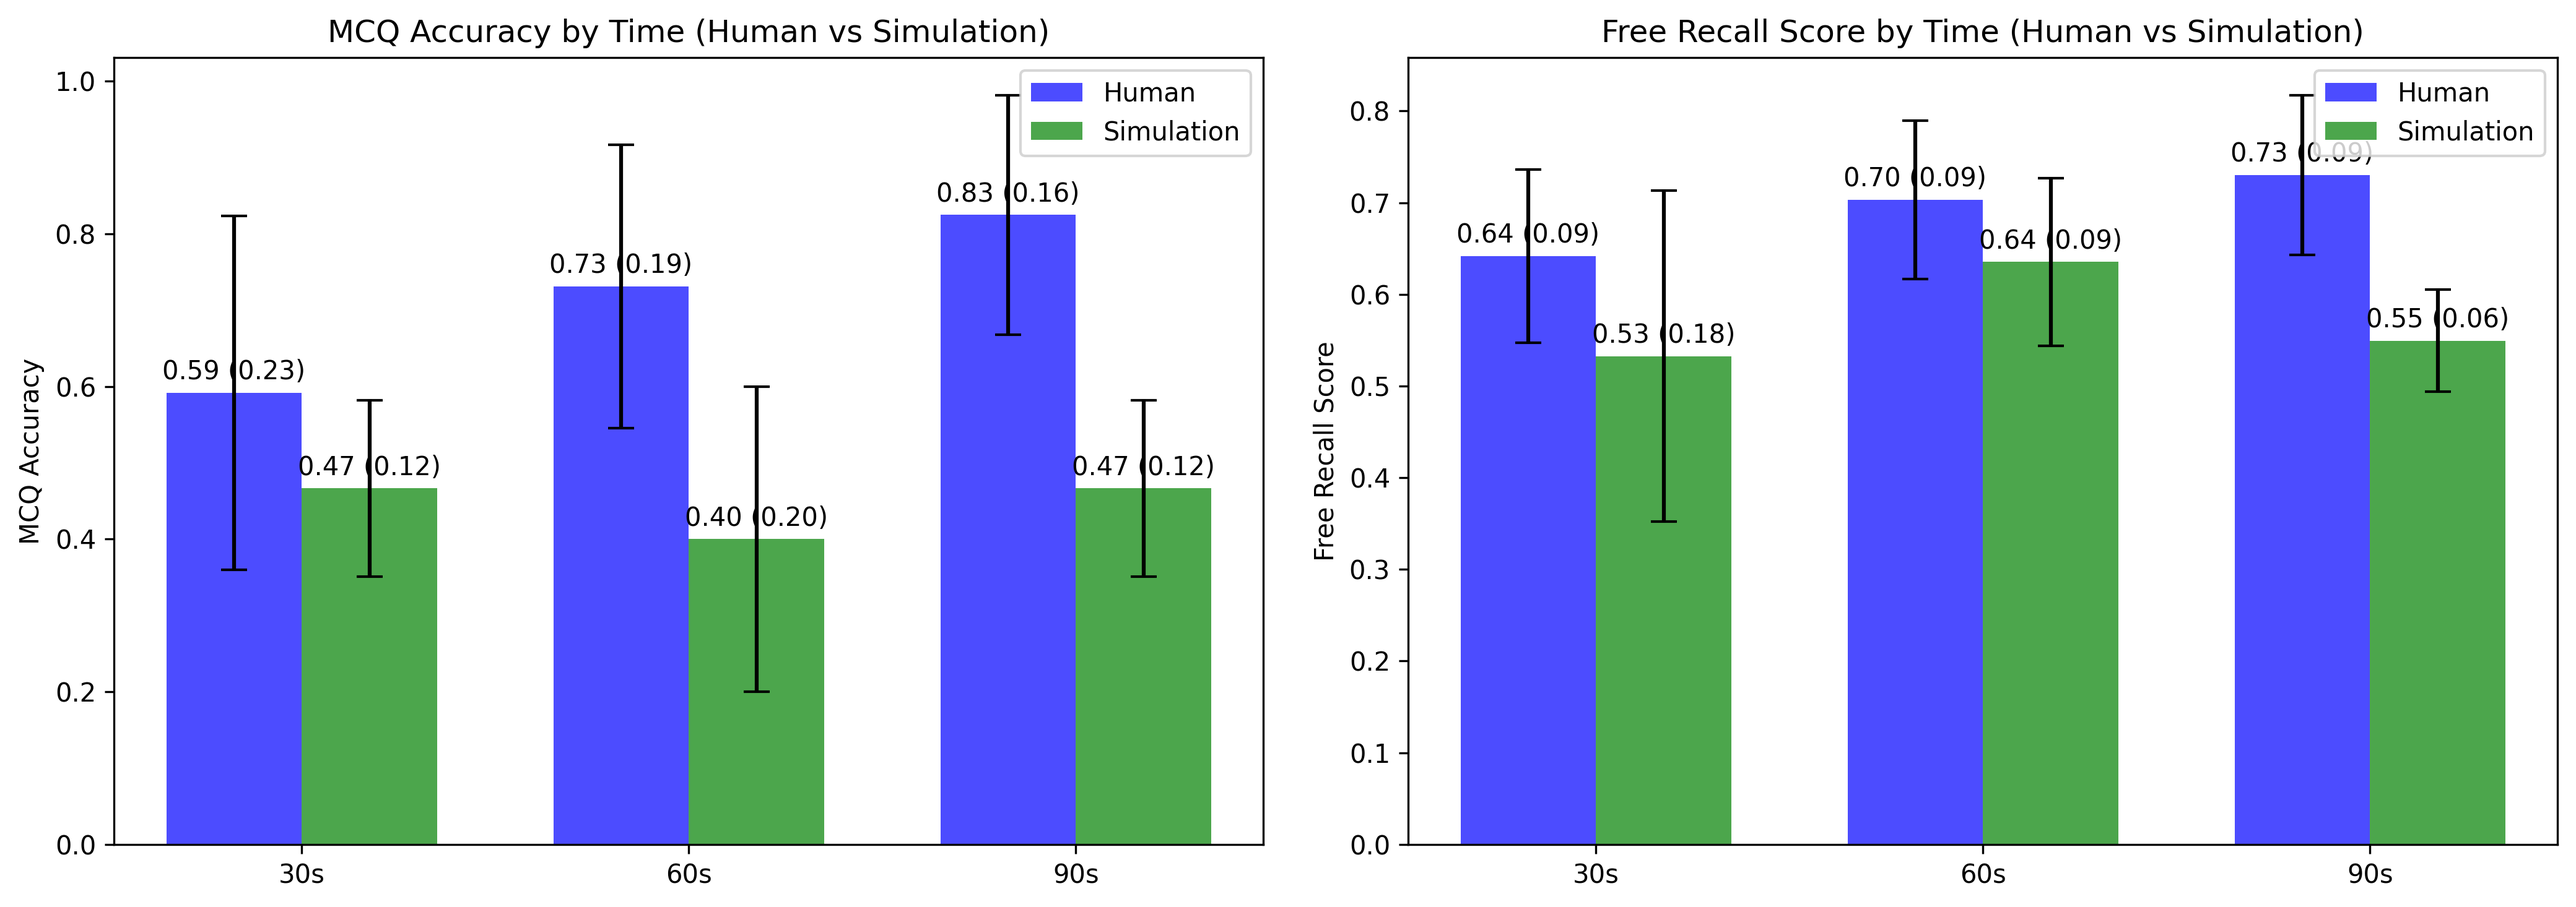
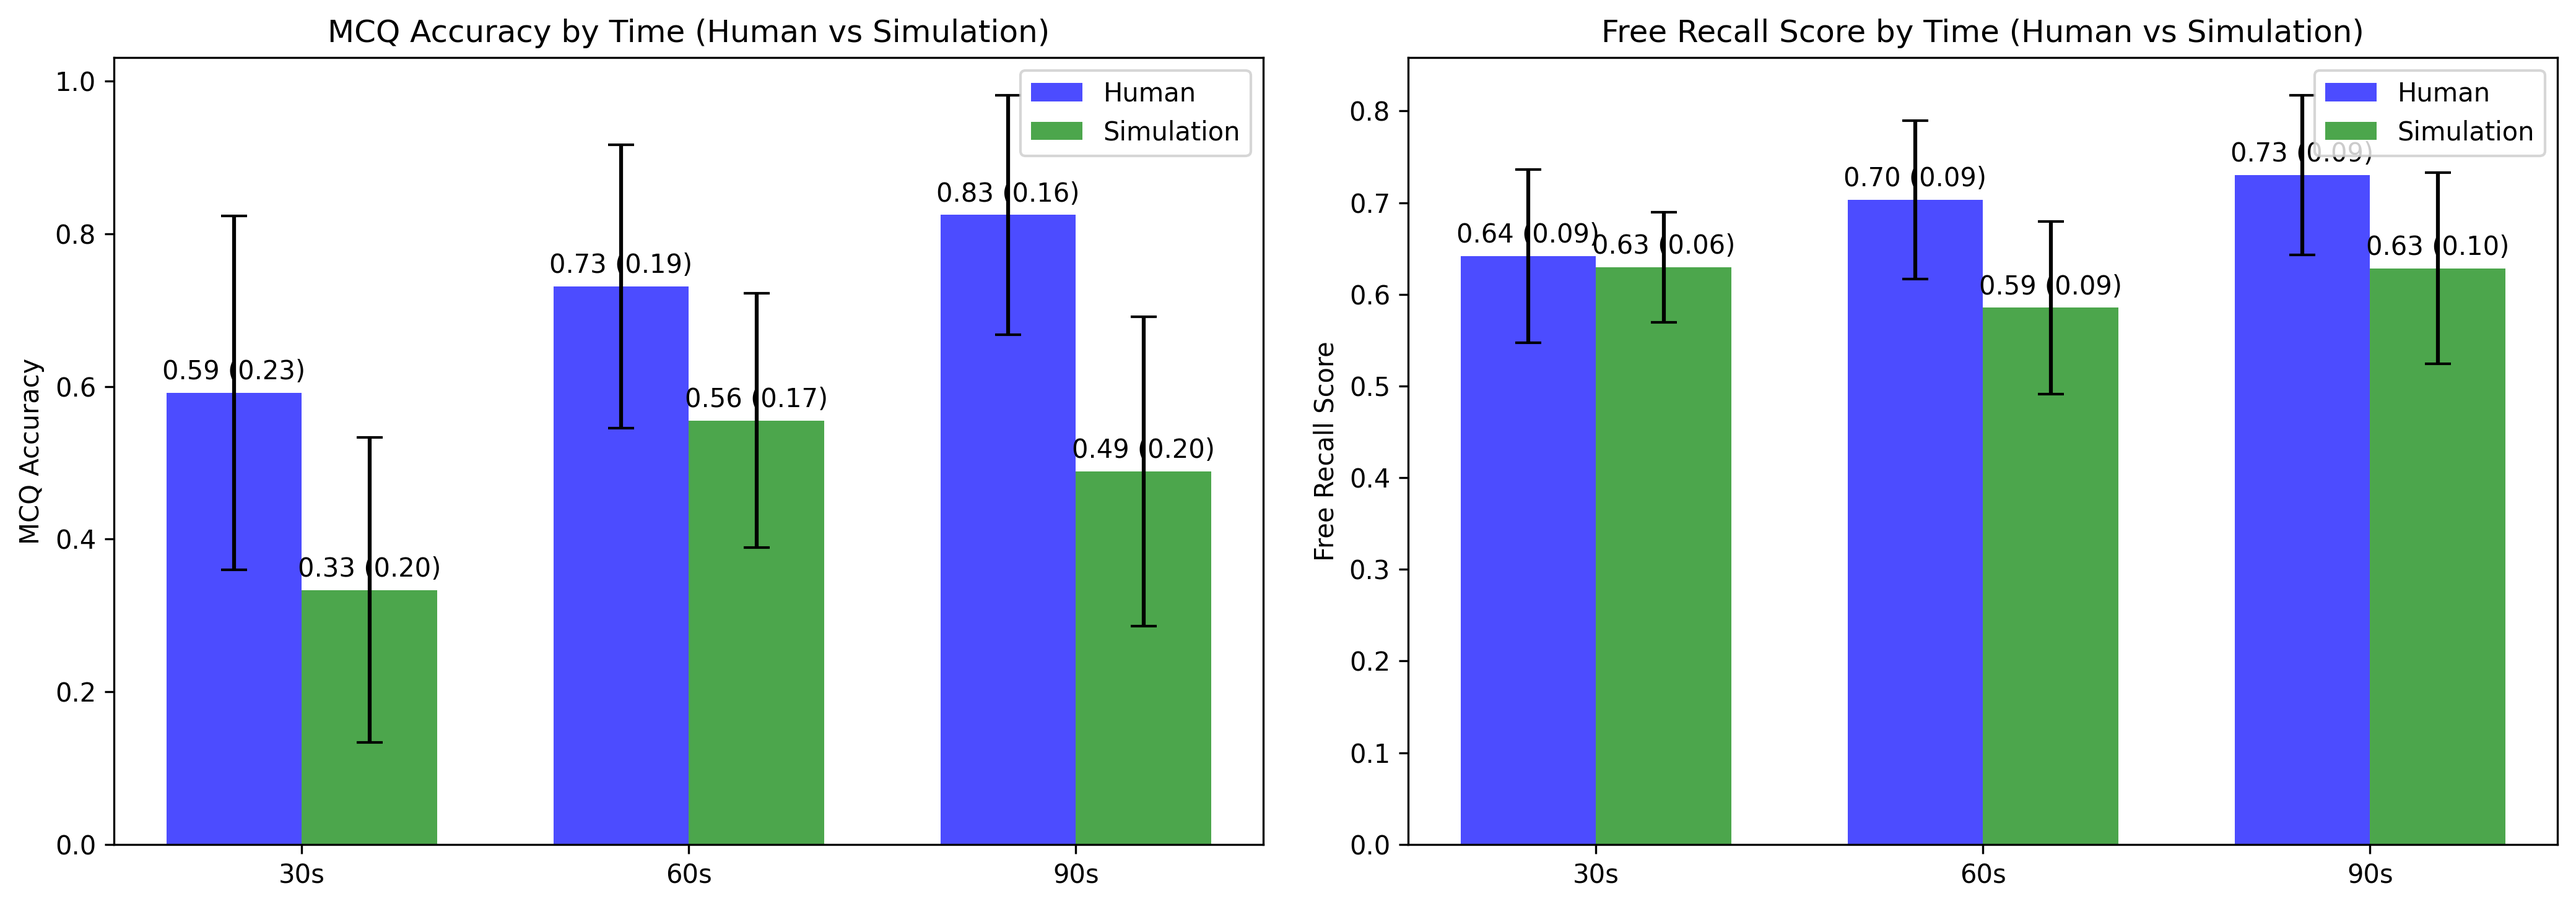
Code >> Allow re-parse sentences. Fixed some issues in the REAME.md; Some persistent problems: repeative reading on sentences does not help comprehension and memory formation, need to tune the current CI framework, and the overall mcq is too low. The trend is also not right.

diff --git a/step5/simulators/simulator_v20250604/results/analyze_aggregated_results/offline_text_comprehension_runner/ci_schema_pipeline.py b/step5/simulators/simulator_v20250604/results/analyze_aggregated_results/offline_text_comprehension_runner/ci_schema_pipeline.py
@@ -115,11 +115,13 @@ class PropositionParser:
     """
 
     def __init__(self, llm_agent=None, role: str = "", use_llm: bool = True,
-                 logger: Optional[logging.Logger] = None):
+                 logger: Optional[logging.Logger] = None,
+                 allow_reparse: bool = False):
         self.llm = llm_agent
         self.role = role
         self.use_llm = (llm_agent is not None) and use_llm
         self.logger = logger
+        self.allow_reparse = bool(allow_reparse)
         self.last_method = "heuristic"
         # sentence -> List[Tuple[predicate, Tuple[args...]]]
         self._cache: Dict[str, List[Tuple[str, Tuple[str, ...]]]] = {}
@@ -132,23 +134,35 @@ class PropositionParser:
 
     def parse(self, sent: str, sent_id: int) -> List[Proposition]:
         key = self._sent_key(sent)
-        if key in self._cache:
+        # If re-parsing is NOT allowed and we have a cache entry, return it.
+        if (not self.allow_reparse) and (key in self._cache):
             self.cache_hits += 1
             self.last_method = "cache"
             if self.logger and self.logger.level <= logging.DEBUG:
                 self.logger.debug(f"  CACHE hit for sentence: {sent[:80]}")
             return [Proposition(pred, args, sent_id, (0, len(sent))) for (pred, args) in self._cache[key]]
 
-        self.cache_misses += 1
-        self.last_method = "heuristic"
+        # Either cache miss or forced fresh parse
+        if key in self._cache:
+            # We deliberately bypass the cache but still track as a 'reparse'
+            self.last_method = "reparse"
+        else:
+            self.cache_misses += 1
+            self.last_method = "heuristic"
+
         props: Optional[List[Proposition]] = None
         if self.use_llm:
             props = self._parse_with_llm(sent, sent_id)
             if props:
-                self.last_method = "llm"
+                self.last_method = "llm" if self.last_method != "reparse" else "reparse-llm"
         if not props:
             props = _heuristic_propositions(sent, sent_id)
+            if self.last_method.startswith("reparse"):
+                self.last_method = "reparse-heuristic"
+            else:
+                self.last_method = "heuristic"
 
+        # Update/overwrite cache with latest parse (useful for auditing)
         self._cache[key] = [(p.predicate, p.args) for p in props]
         if self.logger and self.logger.level <= logging.DEBUG:
             self.logger.debug(f"  CACHE store ({len(props)} props) for sentence: {sent[:80]}")
@@ -470,8 +484,26 @@ def run_pipeline(json_path: str,
                  start: int = 0,
                  log_every: int = 1,
                  verbose: str = "INFO",
-                 p_store: float = 0.35) -> Dict:
-    """Run CI+Schema over episodes with rich logging, WM/LTM tracking."""
+                 p_store: float = 0.35,
+                 allow_reparse: bool = False) -> Dict:
+    """Run CI+Schema over episodes with rich logging, WM/LTM tracking.
+
+    Args:
+        json_path: Path to episodes JSON.
+        llm_agent: Optional LLM agent used for proposition parsing.
+        llm_role: System prompt for LLM.
+        use_llm: If False, fall back to heuristic parser.
+        wm_buffer: Working-memory buffer size.
+        limit_episodes: Optional limit on number of episodes.
+        start: Start index in episodes.
+        log_every: Log frequency (in steps).
+        verbose: Logging level.
+        p_store: Base probability of storing a proposition to LTM.
+        allow_reparse: If True, bypass the sentence cache and re-parse the same
+            sentence on each visit (useful for testing whether multiple parses
+            yield additional details). If False (default), the parser caches
+            and reuses propositions for identical sentence strings.
+    """
     logger = setup_logger(verbose)
     with open(json_path, "r", encoding="utf-8") as f:
         data = json.load(f)
@@ -480,7 +512,7 @@ def run_pipeline(json_path: str,
     data_slice = data[start:start + limit_episodes] if limit_episodes is not None else data[start:]
     logger.info(f"Loaded {len(data)} episodes; processing {len(data_slice)} (start={start}).")
 
-    parser = PropositionParser(llm_agent=llm_agent, role=llm_role, use_llm=use_llm, logger=logger)
+    parser = PropositionParser(llm_agent=llm_agent, role=llm_role, use_llm=use_llm, logger=logger, allow_reparse=allow_reparse)
 
     results: Dict[str, List[Dict]] = {}
     for idx, ep in enumerate(data_slice, start=1):

diff --git a/step5/simulators/simulator_v20250604/results/analyze_aggregated_results/offline_text_comprehension_runner/main.py b/step5/simulators/simulator_v20250604/results/analyze_aggregated_results/offline_text_comprehension_runner/main.py
@@ -13,6 +13,7 @@ if __name__ == "__main__":
     ap.add_argument("--start", type=int, default=0, help="Start offset for episodes")
     ap.add_argument("--wm_buffer", type=int, default=5)
     ap.add_argument("--log_every", type=int, default=1)
+    ap.add_argument("--allow_reparse", type=bool, default=True)
     ap.add_argument("--verbose", default="INFO", choices=["DEBUG","INFO","WARNING","ERROR"])
     args = ap.parse_args()
 
@@ -30,6 +31,7 @@ if __name__ == "__main__":
         # llm_role="You are a reader with no prior knowledge about the reading content.",
         verbose=args.verbose,
         p_store=0.35,       # per-cycle consolidation prob for recall proxy
+        allow_reparse=True
     )
 
     # write outputs to a compact JSON for analysis/plots

diff --git a/step5/simulators/simulator_v20250604/results/analyze_aggregated_results/comprehension_tests_runner/README.md b/step5/simulators/simulator_v20250604/results/analyze_aggregated_results/comprehension_tests_runner/README.md
@@ -50,11 +50,11 @@ python main.py   --mode heuristic   --verbose 2   --fr_score_mode heuristic   --
 ### 2) Full LLM run (Aalto gateway)
 Creates a **new GPT agent per trial** for MCQ + free recall.
 ```bash
-# LLM for QA, score free recall vs gist with heuristic scorer
+# LLM for QA, score free recall vs gist with heuristic scorer (DO NOT USE THIS, JUST SHOWCASE)
 python main.py   --mode llm   --verbose 1   --fr_score_mode heuristic   --fr_reference gist
 
-# LLM for QA and LLM‑judge scoring vs original stimulus text
-python main.py   --mode llm   --verbose 1   --fr_score_mode llm   --fr_reference stimulus   --stimuli_text_json ../assets/comprehension_results/simulation/simulation_read_contents.json
+# LLM for QA and LLM‑judge scoring vs original stimulus text (DO NOT USE THIS, JUST SHOWCASE)
+python main.py   --mode llm   --verbose 1   --fr_score_mode llm   --fr_reference stimulus   --stimuli_text_json ../assets/comprehension_results/mcq_metadata.json
 ```
 
 ---

diff --git a/step5/simulators/simulator_v20250604/results/analyze_aggregated_results/offline_text_comprehension_runner/README.md b/step5/simulators/simulator_v20250604/results/analyze_aggregated_results/offline_text_comprehension_runner/README.md
@@ -6,7 +6,7 @@ This repository implements a **Kintsch-style Construction–Integration (CI)** p
 > - `ci_schema_pipeline.py` – main pipeline (schema + WM + LTM + logs).
 > - `gpt-api.py` – your LLM wrapper (optional; pipeline falls back to heuristic parsing).
 > - `simulation_read_contents.json` – episode-wise input logs of what the agent read.
-> - (optional runner) `run_ci_from_json.py` – simple CLI runner (see Usage).
+> - (optional runner) `main.py` – simple CLI runner (see Usage).
 
 ---
 
